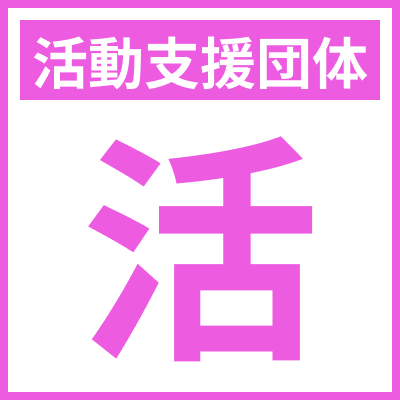
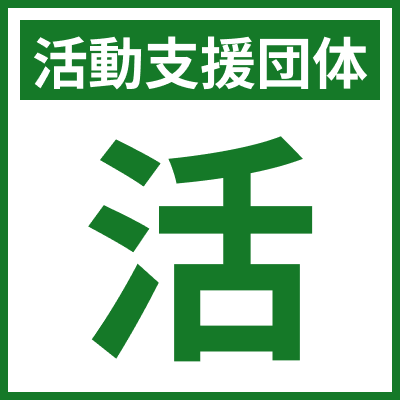
事業枠ごとにアイコンを変更

diff --git a/src/components/atoms/BusinessOrgTypeThumbnail.tsx b/src/components/atoms/BusinessOrgTypeThumbnail.tsx
@@ -1,6 +1,9 @@
 import React from "react";
 import { StaticImage } from "gatsby-plugin-image";
-import { isActivitySupportGroup } from "../../lib/businessTypeNameChecker";
+import {
+  isActivitySupportGroup,
+  isEmergencySupportGroup,
+} from "../../lib/businessTypeNameChecker";
 
 export const BusinessOrgTypeThumbnail = ({
   business_org_type,
@@ -9,8 +12,8 @@ export const BusinessOrgTypeThumbnail = ({
   business_org_type: string;
   business_type_name: string;
 }) => {
-  if (isActivitySupportGroup(business_type_name)) {
-    {
+  switch (true) {
+    case isActivitySupportGroup(business_type_name):
       return business_org_type === "F" ? (
         <StaticImage
           src="../../images/thumbnail_katsudoshien.png"
@@ -24,20 +27,35 @@ export const BusinessOrgTypeThumbnail = ({
           tw="w-full"
         />
       );
-    }
-  } else {
-    return business_org_type === "F" ? (
-      <StaticImage
-        src="../../images/thumbnail_shikinbunpai.png"
-        alt="サムネイル"
-        tw="w-full"
-      />
-    ) : (
-      <StaticImage
-        src="../../images/thumbnail_jikkou.png"
-        alt="サムネイル"
-        tw="w-full"
-      />
-    );
+
+    case isEmergencySupportGroup(business_type_name):
+      return business_org_type === "F" ? (
+        <StaticImage
+          src="../../images/thumbnail_shikinbunpai_emergency.png"
+          alt="サムネイル"
+          tw="w-full"
+        />
+      ) : (
+        <StaticImage
+          src="../../images/thumbnail_jikkou_emergency.png"
+          alt="サムネイル"
+          tw="w-full"
+        />
+      );
+
+    default:
+      return business_org_type === "F" ? (
+        <StaticImage
+          src="../../images/thumbnail_shikinbunpai.png"
+          alt="サムネイル"
+          tw="w-full"
+        />
+      ) : (
+        <StaticImage
+          src="../../images/thumbnail_jikkou.png"
+          alt="サムネイル"
+          tw="w-full"
+        />
+      );
   }
 };

diff --git a/src/lib/businessTypeNameChecker.ts b/src/lib/businessTypeNameChecker.ts
@@ -5,7 +5,9 @@ export const isActivitySupportGroup = (business_type_name: string): boolean => {
 export const isEmergencySupportGroup = (
   business_type_name: string
 ): boolean => {
-  return business_type_name.includes("緊急支援枠");
+  return convertBusinessTypeNameLabel(business_type_name).includes(
+    "緊急支援枠"
+  );
 };
 
 export const convertBusinessTypeNameLabel = (label: string) => {
